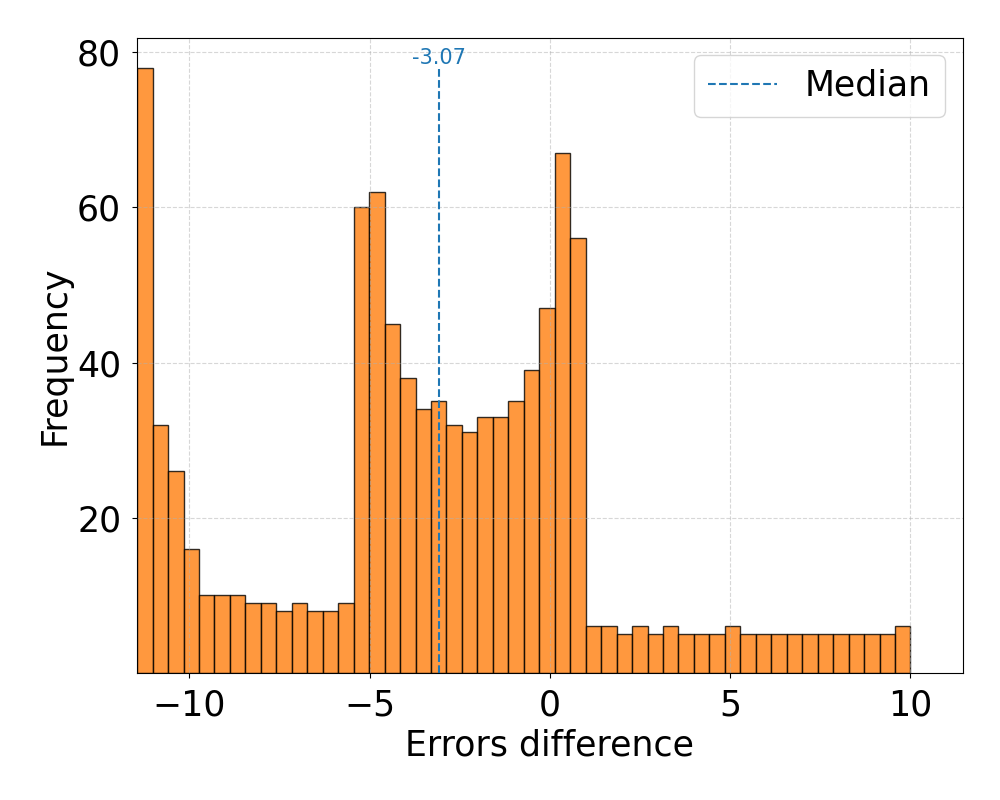
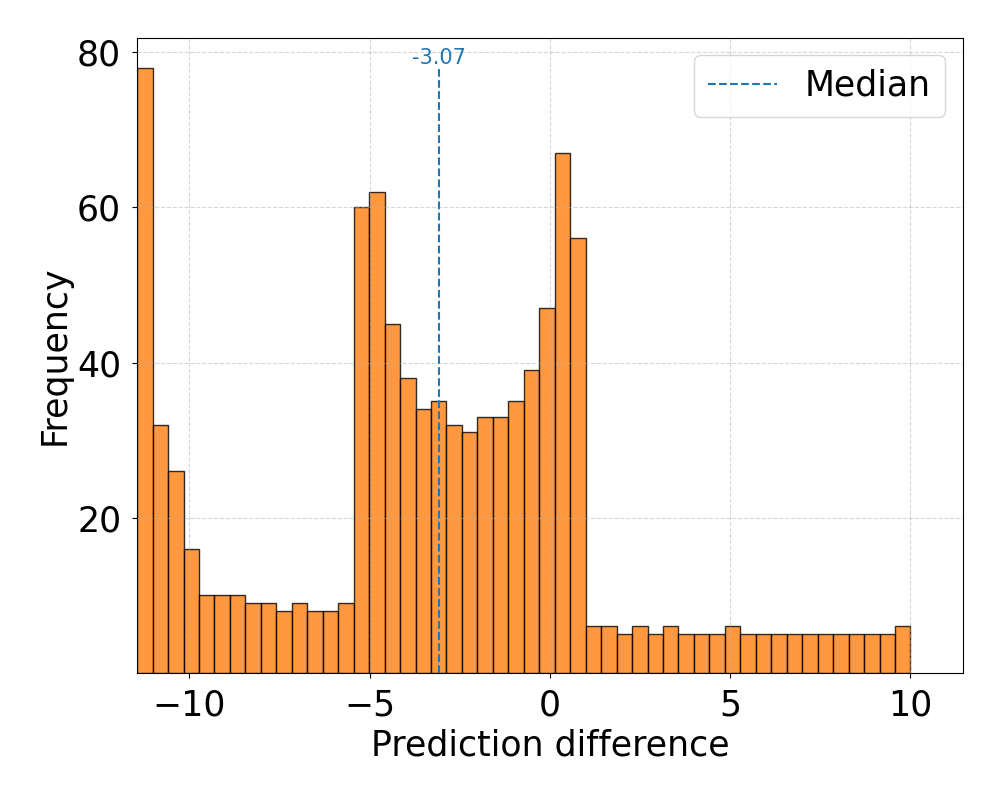
modified difference histogram

Changed region(s): [[0.372, 0.9062, 0.744, 0.9688]]

diff --git a/utils/visualization.py b/utils/visualization.py
@@ -674,14 +674,14 @@ def plot_distributions_alone(data : pd.DataFrame, path : str, file_name = 'distr
         fig.tight_layout()
         fig.savefig(join(to_save, file_name))
 
-def plot_diff_distributions(data : pd.DataFrame, path : str, file_name = 'distributions_diff.png', 
+def plot_diff_distributions(data : pd.DataFrame, path : str, file_name = 'predictions_diff.png', 
                             models : Union[tuple, str] = 'all'):
-    """ Plot the figure with the distribution of the differences between the errors for the models.
+    """ Plot the figure with the distribution of the differences between the predictions for the models.
 
     Parameters:
     data (pd.DataFrame): The input data containing the actual and predicted values.
     path (str): The path to save the generated plot(s).
-    file_name (str, optional): The name of the file to save the plot. Defaults to 'distributions_diff.png'.
+    file_name (str, optional): The name of the file to save the plot. Defaults to 'predictions_diff.png'.
     models (Union[tuple, str], optional): The models to plot. If 'all', plots all combinations of error metrics. Defaults to 'all'.
     """
     if models == 'all':
@@ -694,28 +694,25 @@ def plot_diff_distributions(data : pd.DataFrame, path : str, file_name = 'distri
         if models == 'all':
             to_save = join(path, combination[0]+'_'+combination[1])
         makedirs(to_save, exist_ok=True)
-        extrema = max(abs(data['error_'+combination[0]] - data['error_'+combination[1]]))
+        extrema = max(abs(data['values_'+combination[0]] - data['values_'+combination[1]]))
         fig, ax = plt.subplots(1, 1, figsize=(10, 8), sharex=True, sharey=True)
 
-        hist = ax.hist(data['error_'+combination[0]] - data['error_'+combination[1]], bins=50, alpha=0.8, edgecolor='black', color='tab:orange')
+        hist = ax.hist(data['values_'+combination[0]] - data['values_'+combination[1]], bins=50, alpha=0.8, edgecolor='black', color='tab:orange')
+        # ax.hist(data['values_'+combination[0]], bins=50, alpha=0.8, edgecolor='black', color='tab:orange', label='Model 1')
+        # ax.hist(data['values_'+combination[1]], bins=50, alpha=0.5, edgecolor='black', color='tab:green', label='Model 2')
         ax.grid(True, linestyle='--', alpha=0.5)
         ticks = ax.get_yticks()
         ticks = [tick for tick in ticks if tick != 0]
         ax.set_yticks(ticks)
 
-        # draw the gaussian kernel density
-        # kde = gaussian_kde(data['error_'+model])
-        # x = np.linspace(-extrema, extrema, 1000)
-        # ax.plot(x, kde(x) * len(data) * (extrema * 2) / 50, color='tab:blue', label='KDE')
-
-        ax.set_xlim(-extrema, extrema)
-        ax.set_ylabel('Frequency')
-        ax.set_xlabel('Errors difference')
-
         max_bin_height = max(hist[0])
         median = (data['error_'+combination[0]] - data['error_'+combination[1]]).median()
         ax.plot([median, median], [0, max_bin_height], color='tab:blue', linestyle='--', label='Median')
         ax.text(median, max_bin_height, f'{median:.2f}', ha='center', va='bottom', color='tab:blue', fontsize=15)
+
+        ax.set_xlim(-extrema, extrema)
+        ax.set_ylabel('Frequency')
+        ax.set_xlabel('Prediction difference')
 
         ax.legend()
         fig.tight_layout()
